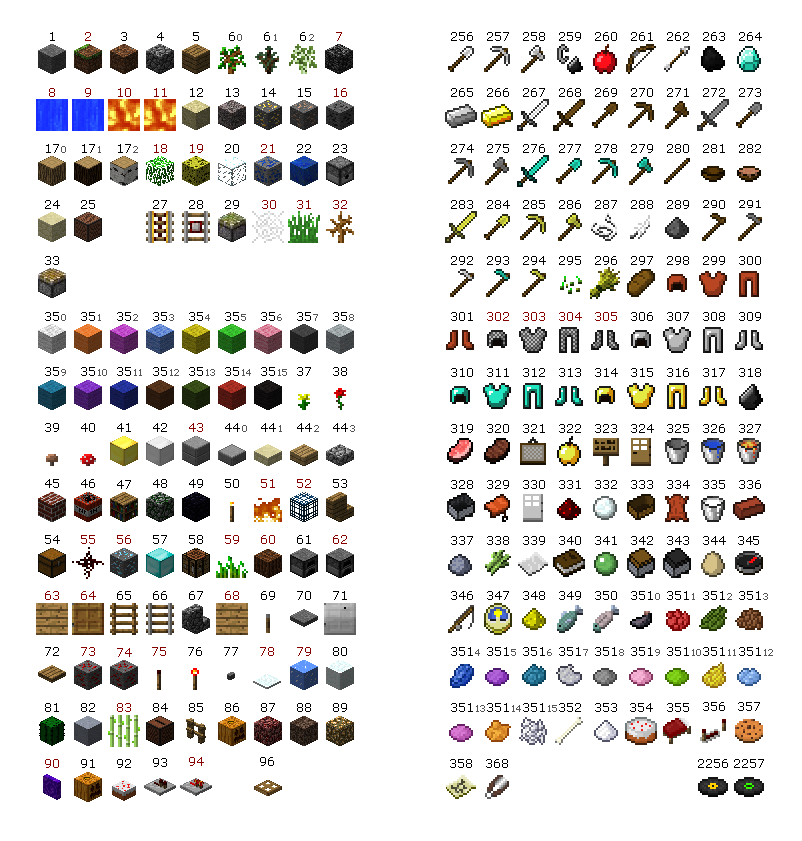
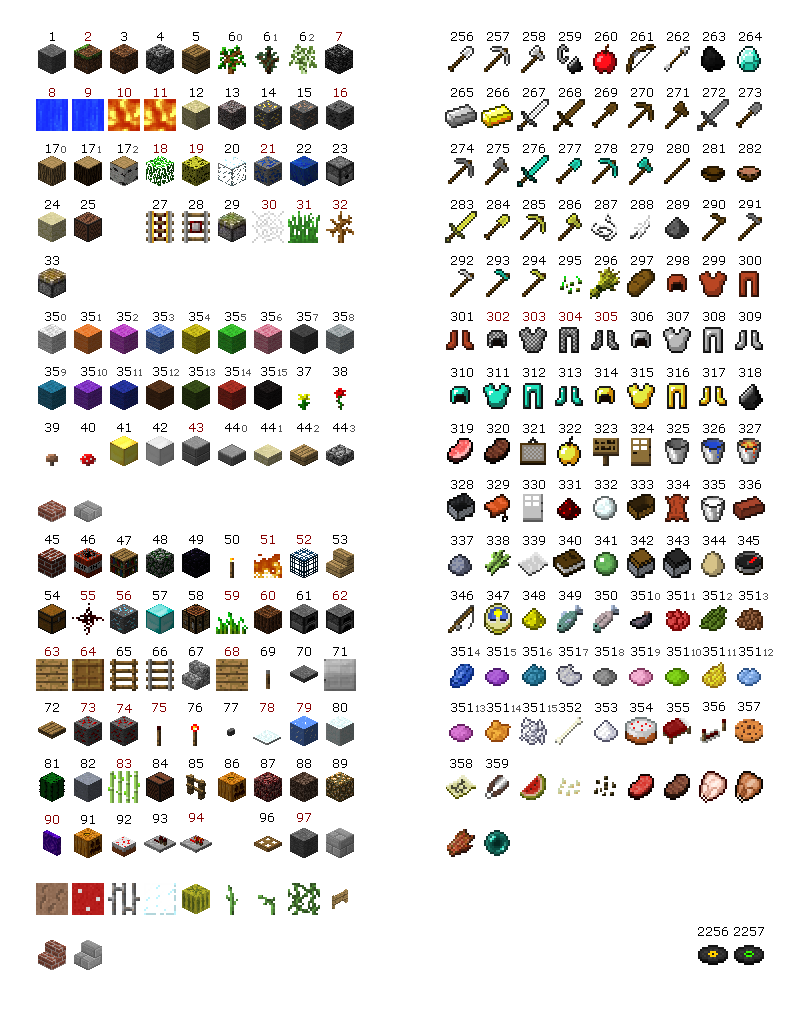
Add 1.8 prebeta items.

diff --git a/Classes/IJInventoryItem.m b/Classes/IJInventoryItem.m
@@ -69,7 +69,8 @@
 	int index = 0;
 	
 	// Blocks
-	if (itemId <= 25 || (itemId >= 27 && itemId <= 33) || (itemId >= 35 && itemId <= 94) || itemId == 96 && itemId != 36)
+	if ((itemId <= 25 || (itemId >= 27 && itemId <= 33) || (itemId >= 35 && itemId <= 109) || (itemId == 96)) &&
+			(itemId != 36 || itemId != 95))
 	{
 		if (itemId <= 5) {
 			index = itemId - 1;
@@ -99,21 +100,21 @@
 			index = itemId + 24;
 		}
 		else if (itemId == 44) {
-			if (damage > 3)
+			if (damage > 5)
 				damage = 0;
 			index = itemId + 24 + damage;
 		}
-		else if (itemId <= 96) {
-			index = itemId + 27;
+		else if (itemId <= 109) {
+			index = itemId + 36;
 		}
 
 		atlasOffset = NSMakePoint(36, 75);
 	}
 	// Items
-	else if (itemId >= 256 && itemId <= 359)
+	else if (itemId >= 256 && itemId <= 368)
 	{
 		index = itemId - 256;
-		if (itemId >= 352 && itemId <= 359)
+		if (itemId >= 352 && itemId <= 368)
 			index = itemId - 241;
 		if (itemId == 351) {
 			if (damage > 15)
@@ -125,7 +126,7 @@
 	}
 	else if (itemId >= 2256 && itemId <= 2257 )
 	{
-		index = itemId - 2249;
+		index = itemId - 2222;
 		atlasOffset = NSMakePoint(445, pixelsPerRow*14+18);
 	}
 	else
